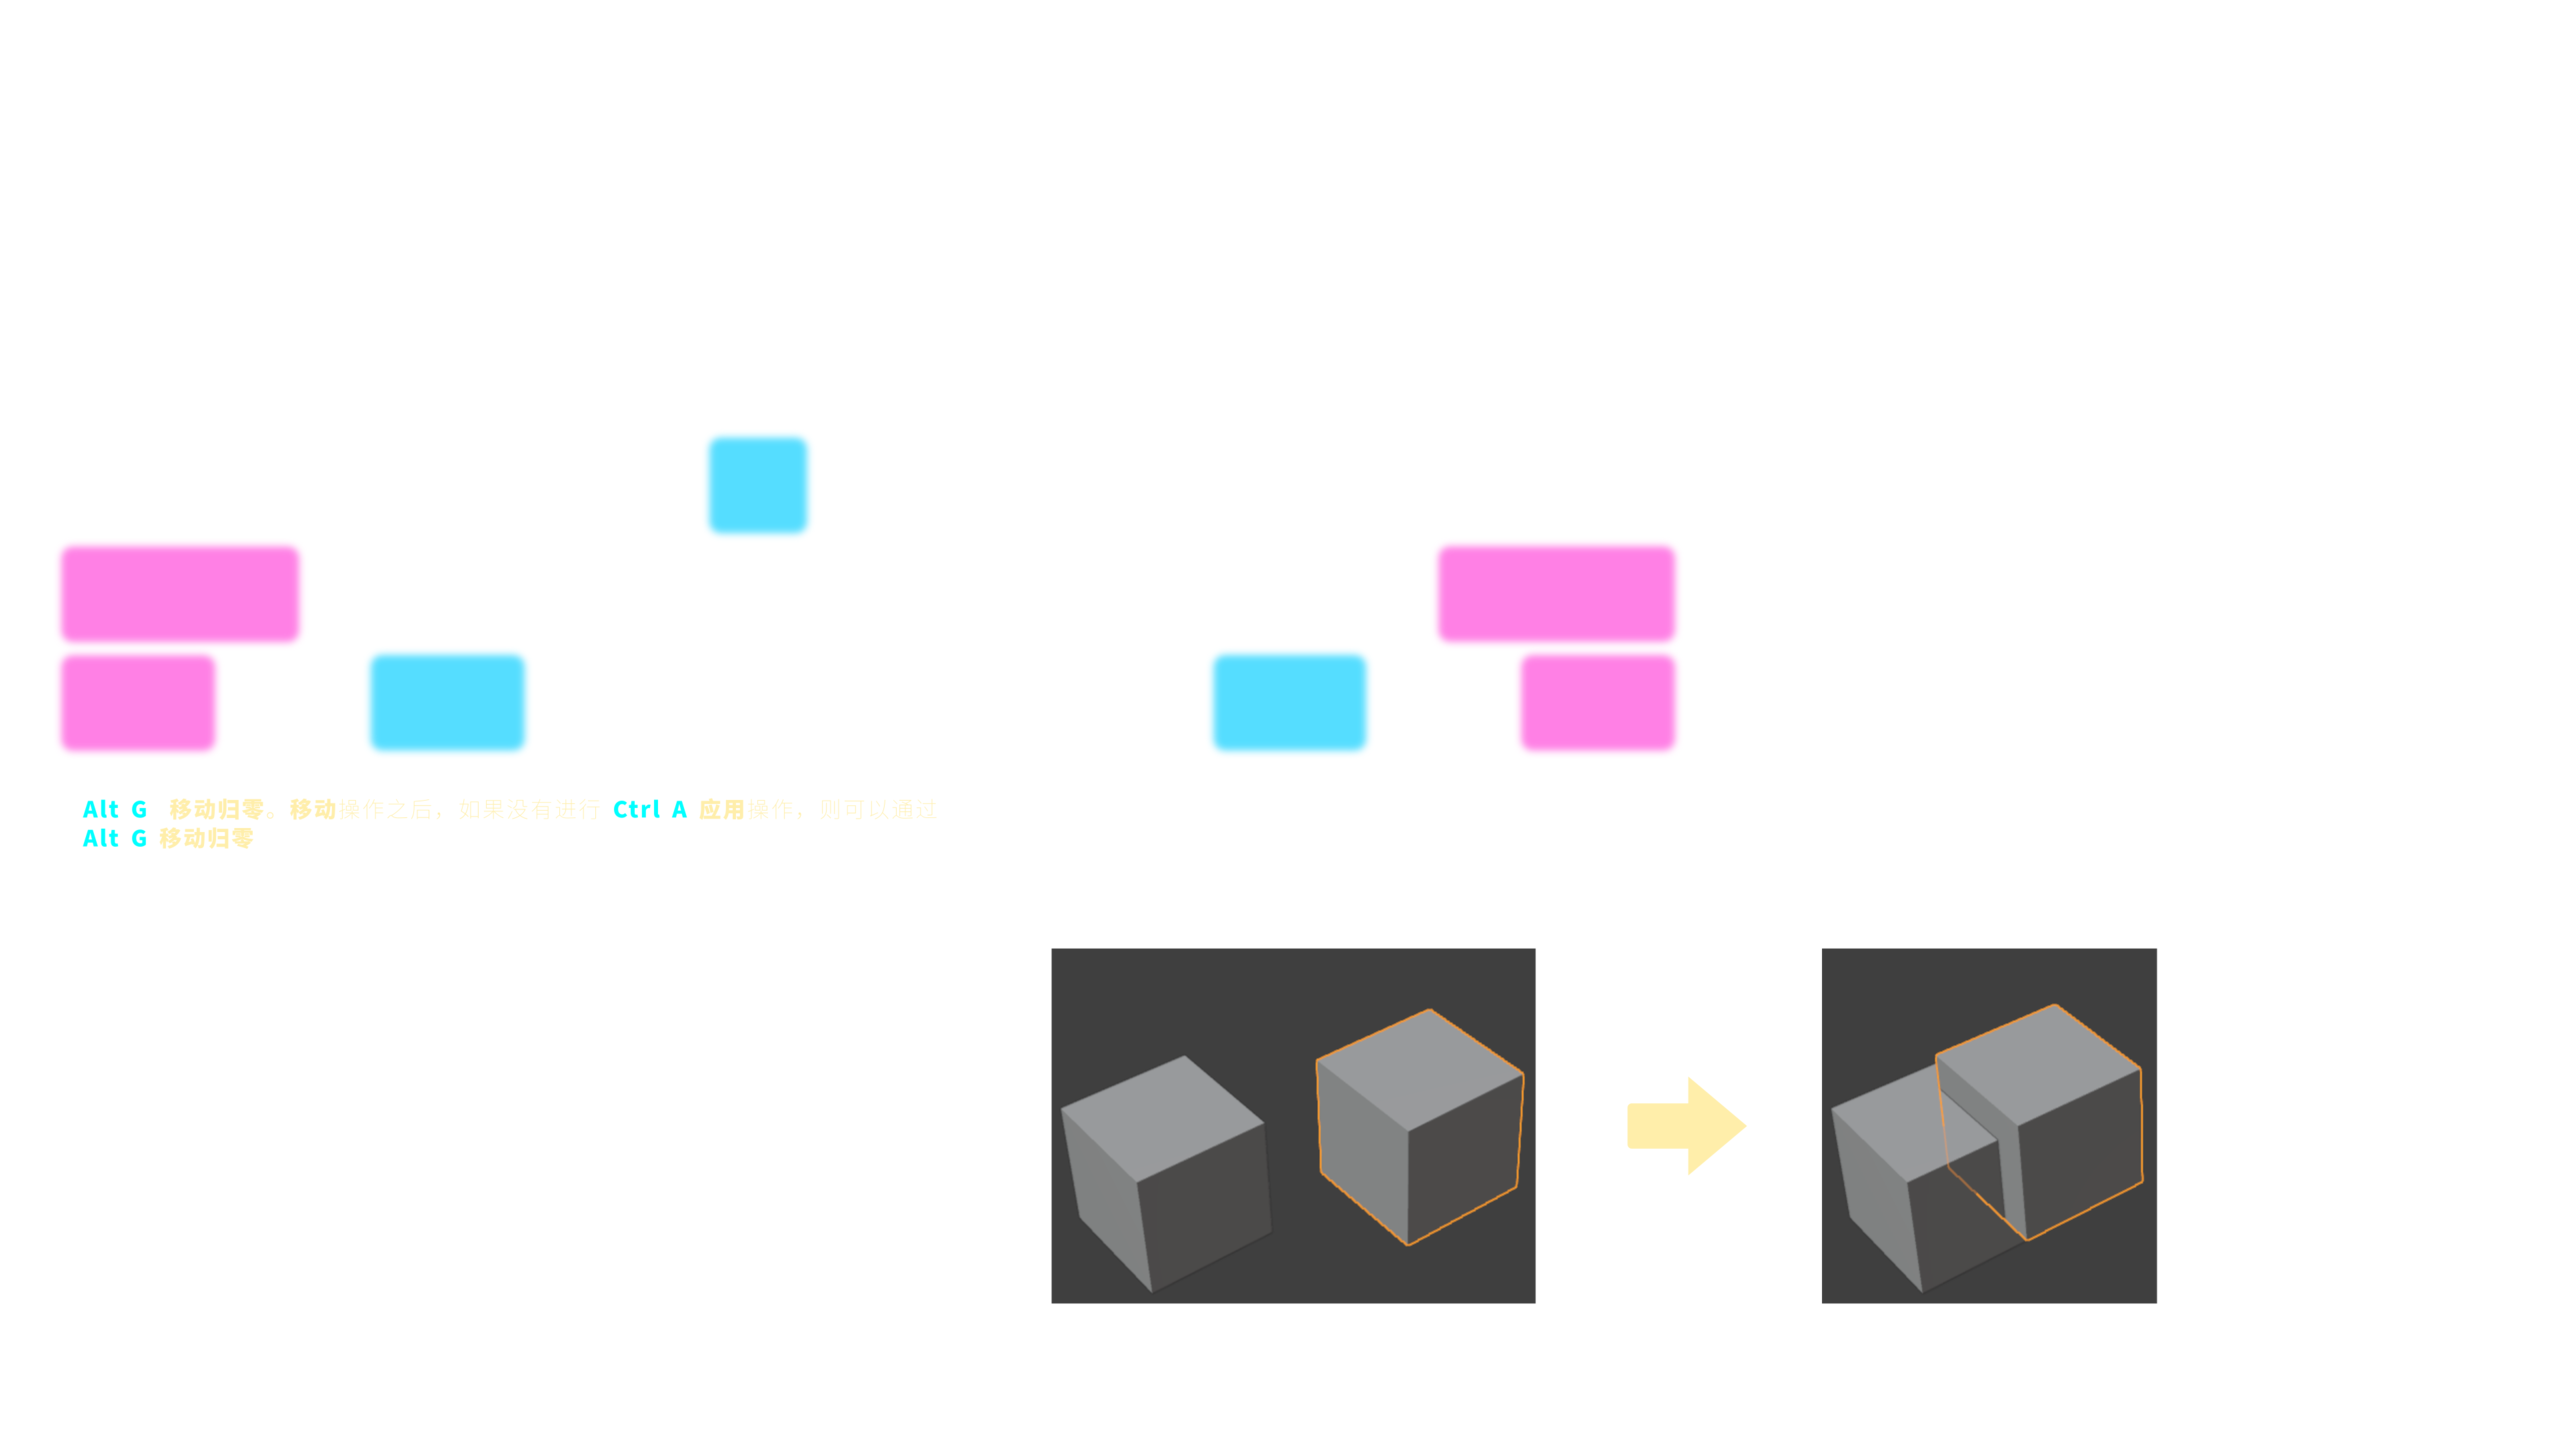
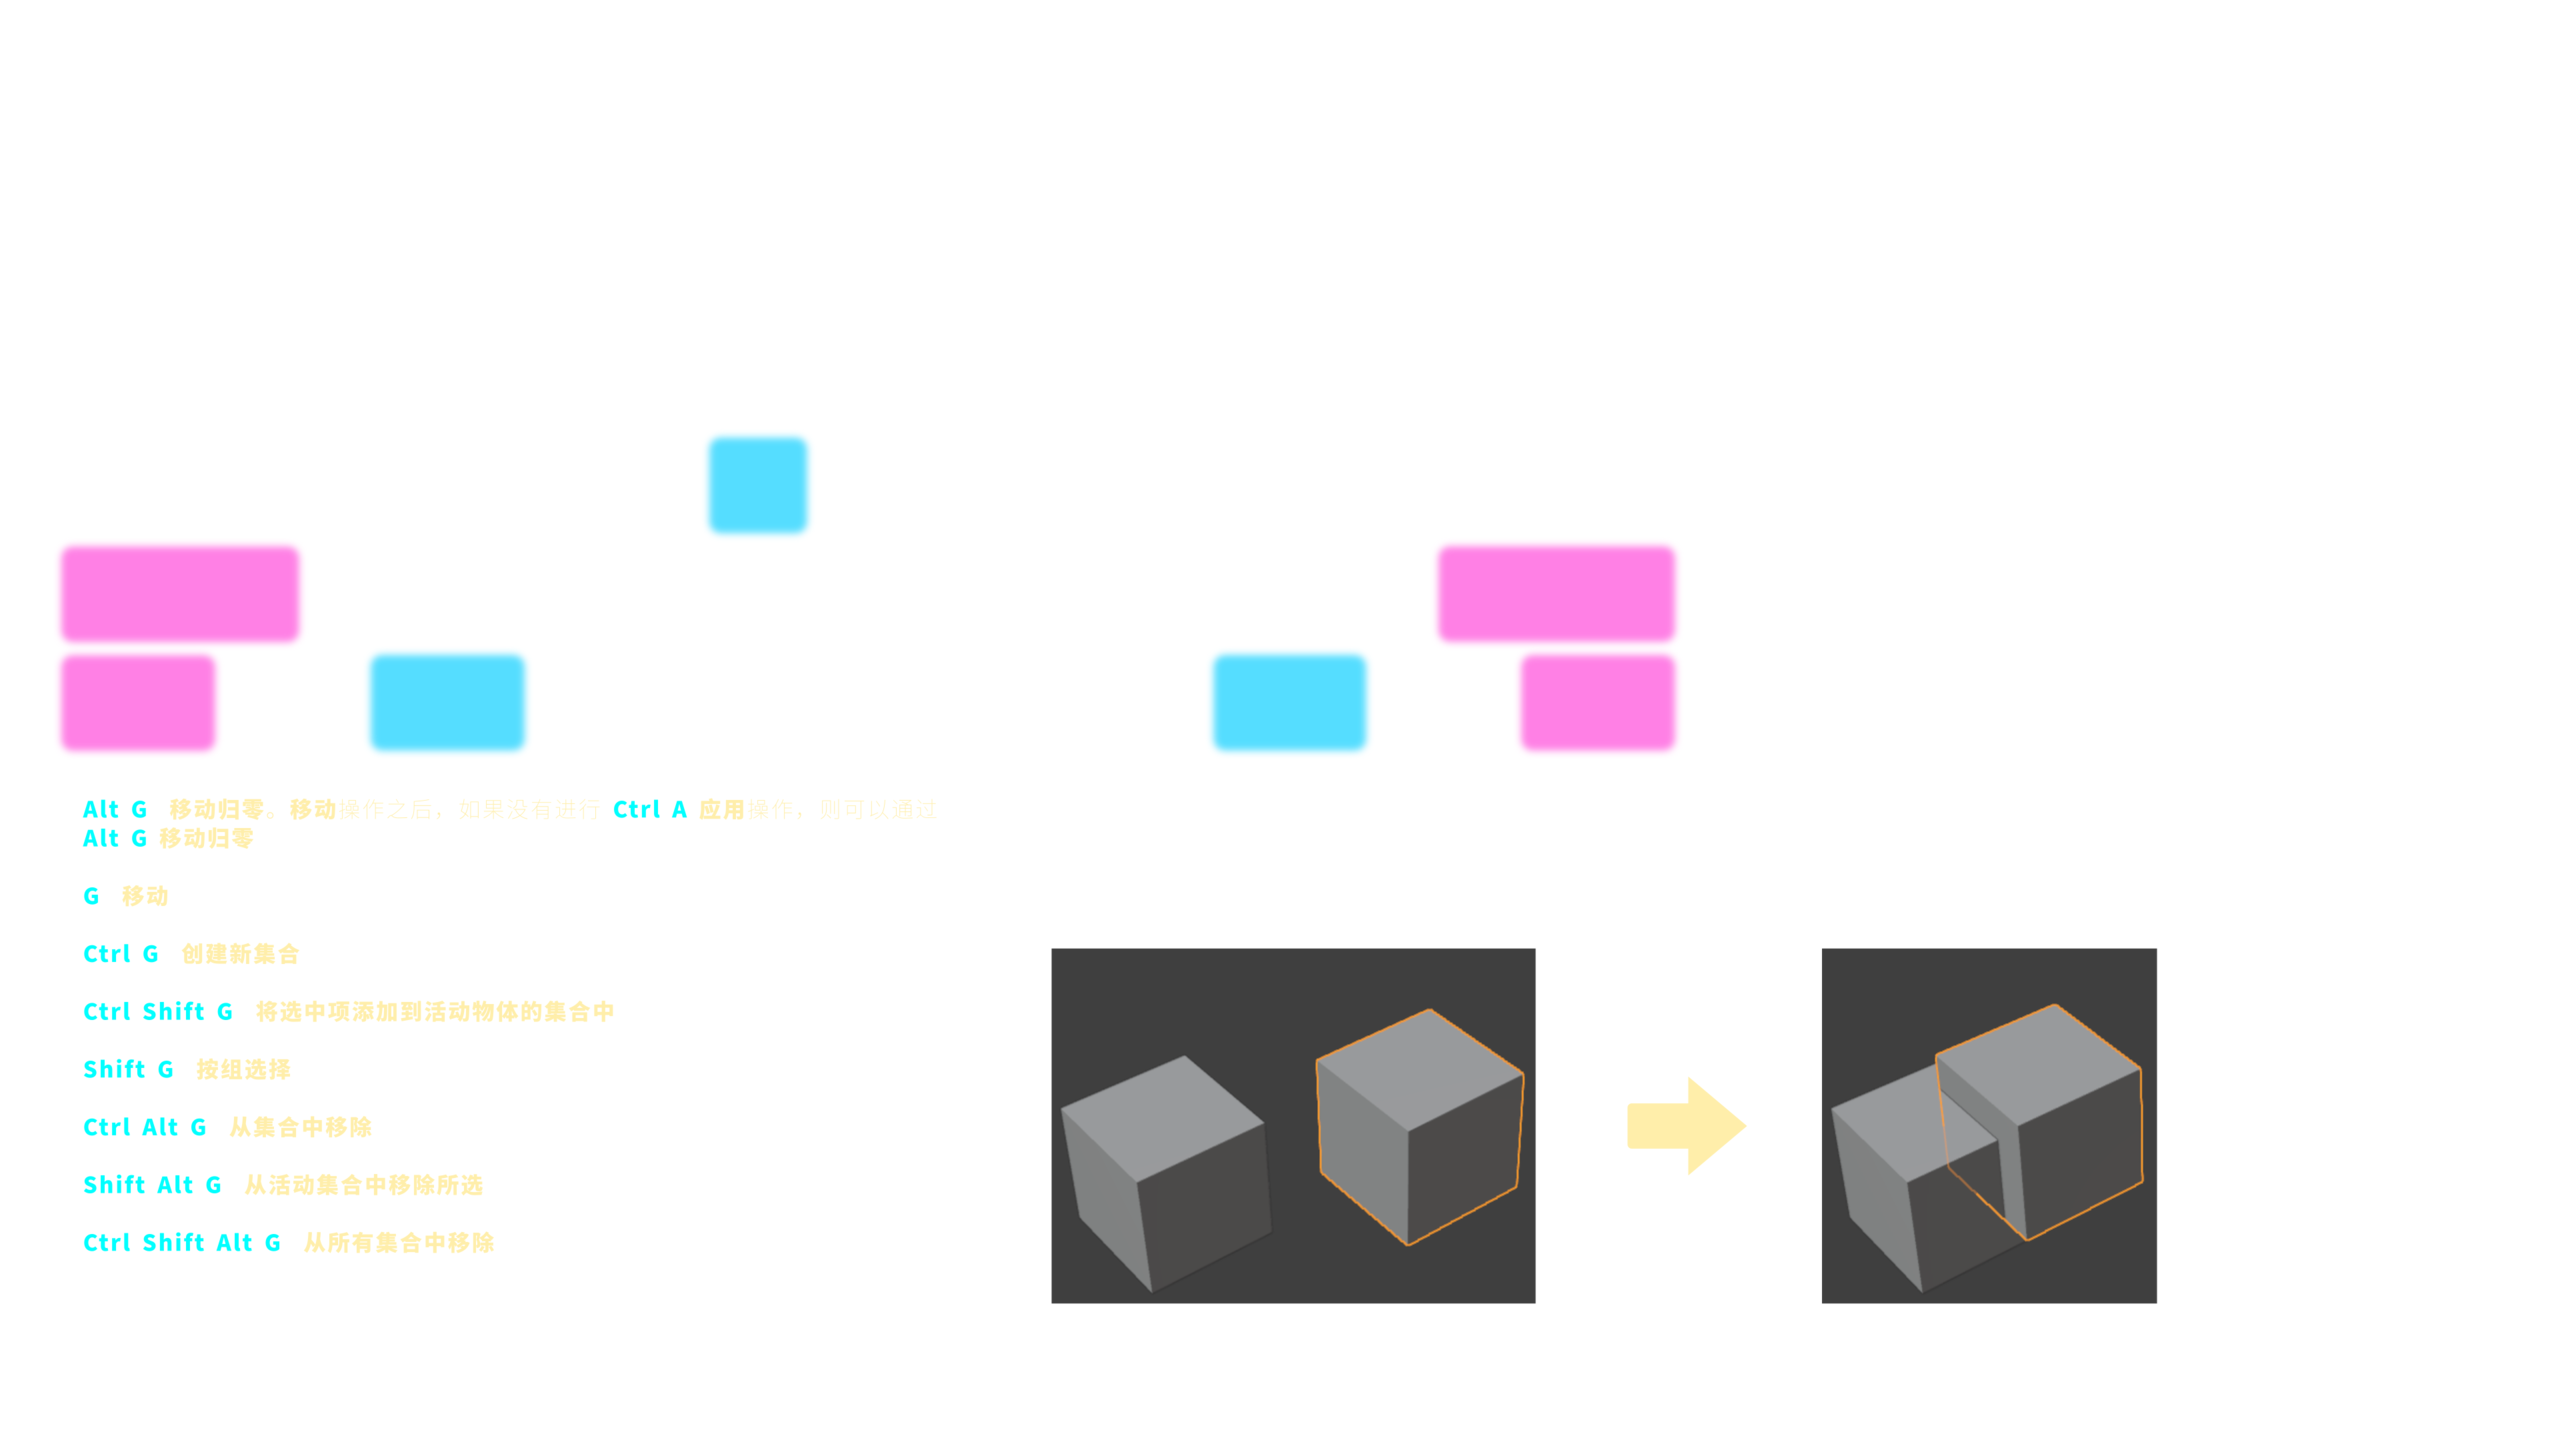
实现G键编辑模式功能

Changed region(s): [[0.0312, 0.6562, 0.25, 0.875], [0.0312, 0.5938, 0.0625, 0.625]]

diff --git a/no_shortcut.py b/no_shortcut.py
@@ -414,21 +414,31 @@ class NS_OT_no_shortcut(bpy.types.Operator):
             return {'RUNNING_MODAL'}
         
         if event.type == 'G':
-            draw_keys('G.png')
-            if event.alt:
-                draw_keys('G_ALT.png')
-            if event.ctrl:
-                draw_keys('G_CTRL.png')
-            if event.shift:
-                draw_keys('G_SHIFT.png')
-            if event.shift and event.alt:
-                draw_keys('G_SHIFT_ALT.png')
-            if event.ctrl and event.alt:
-                draw_keys('G_CTRL_ALT.png')
-            if event.ctrl and event.shift:
-                draw_keys('G_CTRL_SHIFT.png')
-            if event.ctrl and event.shift and event.alt:
-                draw_keys('G_CTRL_SHIFT_ALT.png')
+            if context_mode == 'OBJECT':
+                draw_keys('G.png')
+                if event.ctrl:
+                    draw_keys('G_CTRL.png')
+                if event.shift:
+                    draw_keys('G_SHIFT.png')
+                if event.alt:
+                    draw_keys('G_ALT.png')
+                if event.ctrl and event.shift:
+                    draw_keys('G_CTRL_SHIFT.png')
+                if event.ctrl and event.alt:
+                    draw_keys('G_CTRL_ALT.png')
+                if event.shift and event.alt:
+                    draw_keys('G_SHIFT_ALT.png')
+                if event.ctrl and event.shift and event.alt:
+                    draw_keys('G_CTRL_SHIFT_ALT.png')
+
+            if context_mode == 'EDIT_MESH':
+                draw_keys('G_EDIT.png')
+                if event.shift:
+                    draw_keys('G_SHIFT_EDIT.png')
+                if event.ctrl:
+                    draw_keys('G_CTRL_EDIT.png')
+                if event.ctrl and event.alt:
+                    draw_keys('G_CTRL_ALT_EDIT.png')
             return {'RUNNING_MODAL'}
         
         if event.type == 'H':
